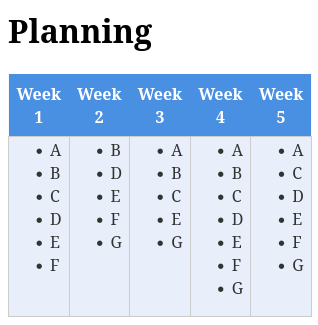
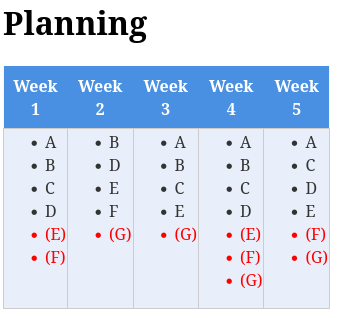
[Data] Create classes for slots and substitutes

Changed region(s): [[0.0, 0.1981, 0.9906, 0.9906], [0.0, 0.0283, 0.4811, 0.1698]]

diff --git a/files/out/planning.html b/files/out/planning.html
@@ -11,10 +11,10 @@
 <th>Week 4</th>
 <th>Week 5</th>
 </tr>
-<tr><td><ul><li>A</li><li>B</li><li>C</li><li>D</li><li>E</li><li>F</li></ul></td>
-<td><ul><li>B</li><li>D</li><li>E</li><li>F</li><li>G</li></ul></td>
-<td><ul><li>A</li><li>B</li><li>C</li><li>E</li><li>G</li></ul></td>
-<td><ul><li>A</li><li>B</li><li>C</li><li>D</li><li>E</li><li>F</li><li>G</li></ul></td>
-<td><ul><li>A</li><li>C</li><li>D</li><li>E</li><li>F</li><li>G</li></ul></td>
+<tr><td><ul><li>A</li><li>B</li><li>C</li><li>D</li><li class="substitute">(E)</li><li class="substitute">(F)</li></ul></td>
+<td><ul><li>B</li><li>D</li><li>E</li><li>F</li><li class="substitute">(G)</li></ul></td>
+<td><ul><li>A</li><li>B</li><li>C</li><li>E</li><li class="substitute">(G)</li></ul></td>
+<td><ul><li>A</li><li>B</li><li>C</li><li>D</li><li class="substitute">(E)</li><li class="substitute">(F)</li><li class="substitute">(G)</li></ul></td>
+<td><ul><li>A</li><li>C</li><li>D</li><li>E</li><li class="substitute">(F)</li><li class="substitute">(G)</li></ul></td>
 </tr></table></body>
 </html>

diff --git a/files/out/planning.css b/files/out/planning.css
@@ -17,3 +17,7 @@ td {
     color: #333;               /* Cell text color */
     border: 1px solid #ccc;
 }
+
+.substitute {
+    color: red;
+}

diff --git a/app/src/main/java/org/llschall/padel/PlanningWriter.java b/app/src/main/java/org/llschall/padel/PlanningWriter.java
@@ -44,11 +44,18 @@ public class PlanningWriter {
         for (Week week : weeks) {
             html.append("<td><ul>");
 
-            week.players.forEach(player -> {
-                html.append("<li>");
-                html.append(player.name);
+            for (Slot slot : week.slots) {
+                html.append("<li");
+                if (slot.isSubstitute)
+                    html.append(" class=\"substitute\"");
+                html.append(">");
+                if (slot.isSubstitute)
+                    html.append("(");
+                html.append(slot.player.name);
+                if (slot.isSubstitute)
+                    html.append(")");
                 html.append("</li>");
-            });
+            }
             html.append("</ul></td>\n");
         }
 

diff --git a/app/src/main/java/org/llschall/padel/WeekFileReader.java b/app/src/main/java/org/llschall/padel/WeekFileReader.java
@@ -44,8 +44,11 @@ public class WeekFileReader {
         } catch (IOException e) {
             throw new PadelPlanException(e);
         }
-        for (String line : lines) {
-            week.players.add(new Player(line));
+
+        for (int i = 0; i < lines.size(); i++) {
+            String line = lines.get(i);
+            Player player = new Player(line);
+            week.slots.add(new Slot(player ,i >3));
         }
 
         return week;

diff --git a/app/src/main/java/org/llschall/padel/Slot.java b/app/src/main/java/org/llschall/padel/Slot.java
@@ -1,0 +1,12 @@
+package org.llschall.padel;
+
+public class Slot {
+
+    Player player;
+    boolean isSubstitute;
+
+    public Slot(Player player, boolean isSubstitute) {
+        this.player = player;
+        this.isSubstitute = isSubstitute;
+    }
+}

diff --git a/app/src/main/java/org/llschall/padel/Week.java b/app/src/main/java/org/llschall/padel/Week.java
@@ -11,6 +11,6 @@ public class Week {
         this.name = name;
     }
 
-    final List<Player> players= new ArrayList<>();
+    final List<Slot> slots= new ArrayList<>();
 
 }
